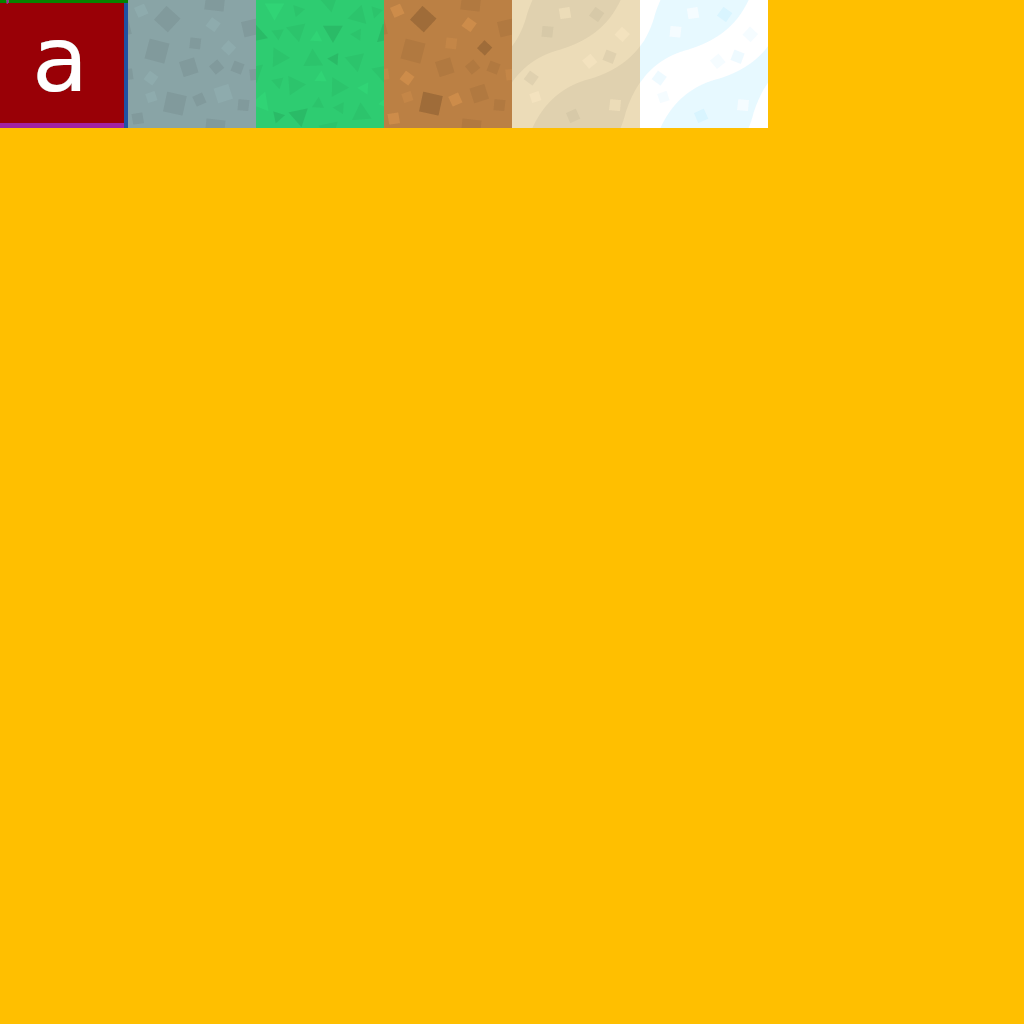
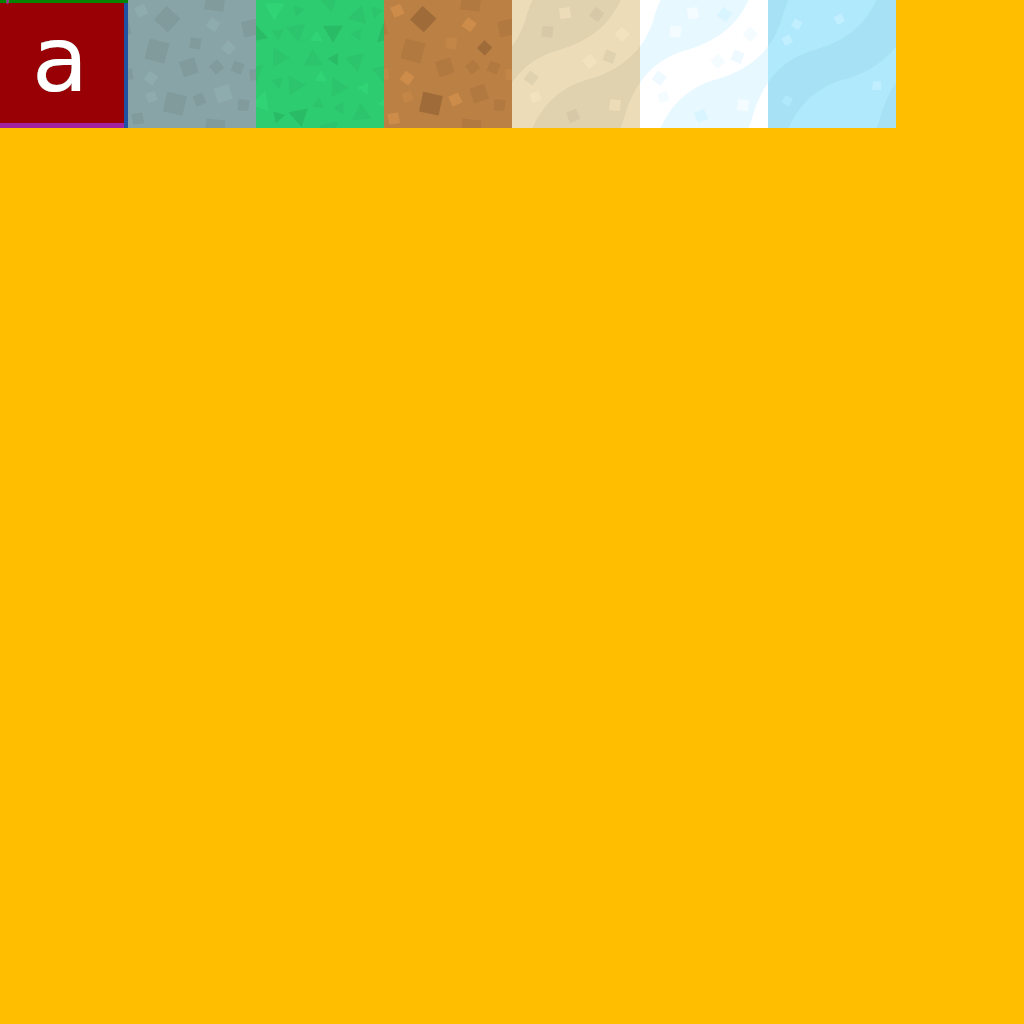
Water... kind of

Changed region(s): [[0.75, 0.0, 0.875, 0.125]]

diff --git a/map.c b/map.c
@@ -174,9 +174,9 @@ void delete_Map(Map * map)
 	}
 }
 
-int get_height(int x, int z, u_int8_t * permutations)
+float get_height(int x, int z, u_int8_t * permutations)
 {
-	return fbm2((x + 256) / 400.f, (z + 256) / 400.f, 6, permutations) * 128.f;
+	return fbm2((x + 256) / 400.f, (z + 256) / 400.f, 6, permutations);
 }
 
 float get_3d(int x, int y, int z, u_int8_t * permutations)
@@ -201,9 +201,18 @@ void randomly_populate(Map * m, Chunk * chunk)
 	int base_height = chunk->y * CHUNK_SIZE;
 	for (int i = 0; i < CHUNK_SIZE; ++i) {
 		for (int k = 0; k < CHUNK_SIZE; ++k) {
-			int height =
+			float height_noise =
 			  get_height(i + chunk->x * CHUNK_SIZE, k + chunk->z * CHUNK_SIZE,
 						 m->height_perm);
+			float wet_noise = get_wetness(i + chunk->x * CHUNK_SIZE,
+										  k + chunk->z * CHUNK_SIZE,
+										  m->wet_perm);
+			float temp_noise = get_temperature(i + chunk->x * CHUNK_SIZE,
+											   k + chunk->z * CHUNK_SIZE,
+											   m->temp_perm);
+
+			int height = height_noise * 128.f;
+
 			for (int j = 0; j < CHUNK_SIZE; ++j) {
 				int type = 0;
 				if (j + base_height < height - 4) {
@@ -213,13 +222,6 @@ void randomly_populate(Map * m, Chunk * chunk)
 				} else if (j + base_height == height - 1) {
 					type = 2;
 				}
-
-				float wet_noise = get_wetness(i + chunk->x * CHUNK_SIZE,
-											  k + chunk->z * CHUNK_SIZE,
-											  m->wet_perm);
-				float temp_noise = get_temperature(i + chunk->x * CHUNK_SIZE,
-												   k + chunk->z * CHUNK_SIZE,
-												   m->temp_perm);
 
 				/* Desert biome. */
 				if (wet_noise < 0 && temp_noise > 0.25
@@ -232,12 +234,23 @@ void randomly_populate(Map * m, Chunk * chunk)
 					type = 5;
 				}
 
+				/* Wa'ah & sand */
+				if (height_noise < -0.2 && j + base_height == height - 1) {
+					type = 4;
+				}
 
 				float threed =
 				  get_3d(i + chunk->x * CHUNK_SIZE, j + chunk->y * CHUNK_SIZE,
 						 k + chunk->z * CHUNK_SIZE, m->height_perm);
 				if (threed < -0.21) {
 					type = 0;
+				}
+
+				float water_level = base_height + (0.22 * CHUNK_SIZE);
+
+				if (height_noise < -0.22 && j + base_height < water_level
+					&& j + base_height > base_height) {
+					type = 6;
 				}
 
 				set_Chunk_block_type(m, chunk, i, j, k, type);

diff --git a/hashmap.c b/hashmap.c
@@ -108,7 +108,7 @@ void for_each_in_HashMap(HashMap * map,
 						 void (*fn)(Key key, void *value, void *extra),
 						 void *extra)
 {
-	for(int i = 0; i < map->array_size; ++i) {
+	for (int i = 0; i < map->array_size; ++i) {
 		HashMapNode *list = map->data[i];
 		while (list) {
 			fn(list->key, list->value, extra);

diff --git a/noise.c b/noise.c
@@ -23,7 +23,7 @@ u_int8_t *shuffled_permutations(size_t size)
 
 static inline float GRAD2(int hash, float x, float y)
 {
-	return ((hash & 1) == 0 ? x : -x) + ((hash & 2) == 0 ? y : -y);
+	return ((hash & 1) ? -x : x) + ((hash & 2) ? -y : y);
 }
 
 static inline float GRAD3(int hash, float x, float y, float z)
